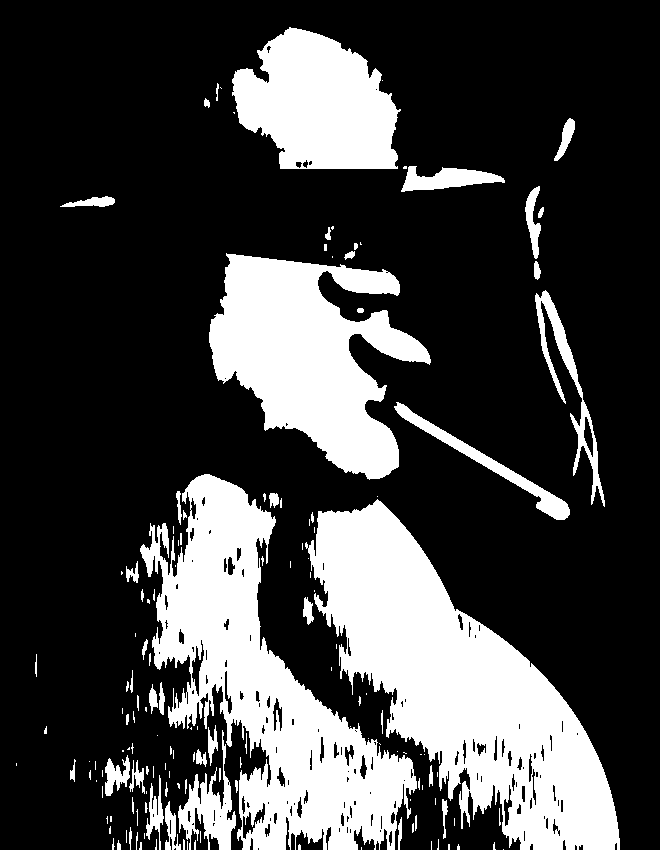
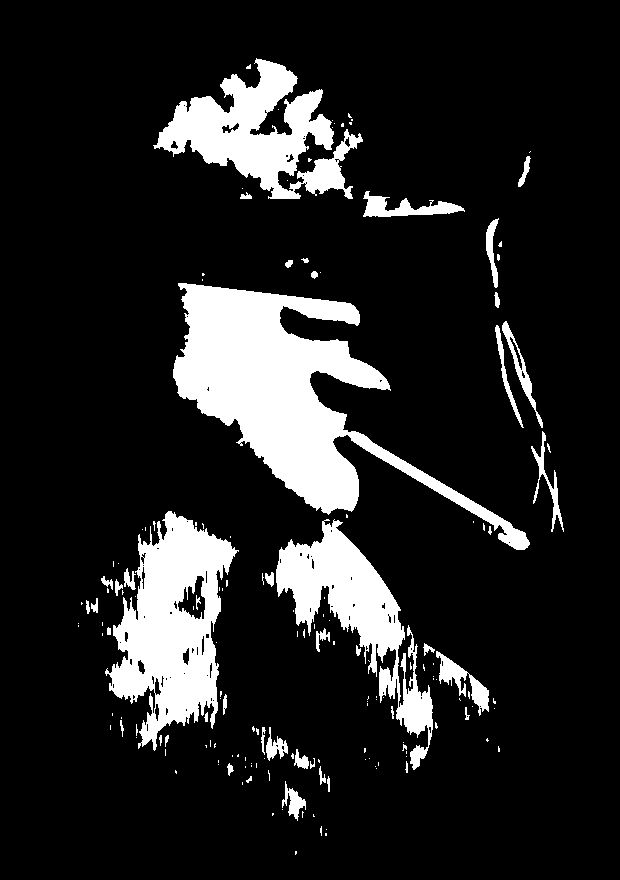
Black page; looser, more abstract stencil portrait that fades into the background
Claude-Session: https://claude.ai/code/session_01SjJqasu7vG2hoaMnGP8oiM

diff --git a/index.html b/index.html
@@ -12,20 +12,20 @@
 <link rel="preconnect" href="https://fonts.gstatic.com" crossorigin>
 <link rel="stylesheet" href="https://fonts.googleapis.com/css2?family=Schibsted+Grotesk:wght@400;500;600&family=Covered+By+Your+Grace&display=swap">
 <style>
-/* Flâneur: black ink on one plain off-white page. Nothing else for now.
+/* Flâneur: off-white on one plain black page. Nothing else for now.
    Type: Schibsted Grotesk; Covered By Your Grace stands in for the hand-lettered logo until the real one
    is ready. Both free from Google Fonts. */
 :root {
-  --paper: #FBFBF9;
-  --ink: #151515;
-  --muted: #6E6E6B;     /* 5:1 on the paper */
-  --hair: #CFCFCB;
-  --rule: #9C9C98;
+  --paper: #000000;     /* matches the portrait's black so it bleeds into the page */
+  --ink: #F2F2EE;
+  --muted: #9A9A96;     /* 7:1 on black */
+  --hair: #2A2A2A;
+  --rule: #444444;
   --gutter: clamp(14px, 1.6vw, 22px);
   --ease: cubic-bezier(.22, 1, .36, 1);
   --font-sans: "Schibsted Grotesk", "Helvetica Neue", Arial, sans-serif;
   --font-hand: "Covered By Your Grace", "Bradley Hand", cursive;
-  color-scheme: light;
+  color-scheme: dark;
 }
 
 * { box-sizing: border-box; }
@@ -56,7 +56,7 @@ a { color: inherit; text-decoration: none; }
 
 /* the picture: the flâneur, drawn in pencil on grey */
 /* the flâneur: a two-tone stencil portrait (flaneur.png), black ground and white highlights */
-.portrait { display: block; margin: 0 auto; width: min(460px, 100%); height: auto; }
+.portrait { display: block; margin: 0 auto; width: min(520px, 100%); height: auto; }
 
 
 .body { align-items: start; padding-top: 16px; }
@@ -104,7 +104,7 @@ main:not([hidden]) { animation: view-in .5s var(--ease) both; }
   <main id="home-view" hidden>
     <h1 class="sr-only">Flâneur</h1>
     <div class="grid body">
-      <div class="pic"><img class="portrait" src="flaneur.png" width="660" height="850" alt="Black and white stencil portrait of a flâneur in a bowler hat, smoking a cigarette"></div>
+      <div class="pic"><img class="portrait" src="flaneur.png" width="620" height="880" alt="Black and white stencil portrait of a flâneur in a bowler hat, smoking a cigarette"></div>
     </div>
   </main>
 
